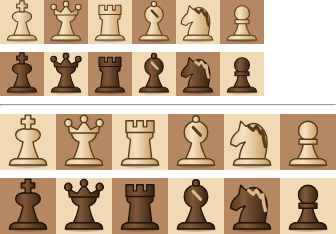
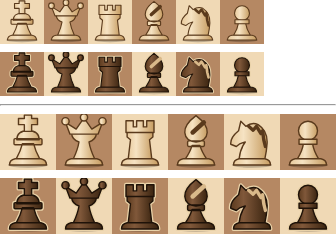
art : fou, roi et dame reconnaissables à 44 px
- fou : mitre en amande nettement pointue sur un col, entaille large ;
- roi : corps droit, bandeau et dôme lisse, haute croix épaisse au-dessus ;
- dame : couronne évasée à pointes profondes, trois billes ;
- pièces foncées : liseré clair autour de la silhouette, pour garder le
  contraste sur case foncée.
Capture des pièces régénérée (la tour, donc l'icône, ne change pas).

diff --git a/src/art/pieces.ts b/src/art/pieces.ts
@@ -24,23 +24,26 @@ const DESSINS: Record<Kind, Dessin> = {
         corps: 'M29 80 L33 46 L27 41 L27 30 L73 30 L73 41 L67 46 L71 80 Z',
         signe: () => signe('creneaux', '<path class="piece" d="M25 12 H38 V23 H44 V12 H56 V23 H62 V12 H75 V33 H25 Z"/>')
     },
-    // Fou : mitre arrondie, boule au sommet, fente en biais.
+    // Fou : mitre en amande, nettement pointue, posée sur un col ; large entaille en biais.
     B: {
-        corps: 'M31 80 Q40 63 42 52 Q29 46 29 33 Q29 17 50 11 Q71 17 71 33 Q71 46 58 52 Q60 63 69 80 Z',
-        signe: creux => signe('fente', `<path d="M45 24 L58 38" fill="none" stroke="${creux}" stroke-width="5.5" stroke-linecap="round"/>`)
-            + '<circle class="piece" cx="50" cy="9" r="6"/>'
+        corps: 'M31 80 Q40 67 43 56 H57 Q60 67 69 80 Z'
+            + ' M35 50 Q35 48 37 48 H63 Q65 48 65 50 V56 Q65 58 63 58 H37 Q35 58 35 56 Z'
+            + ' M50 3 Q71 19 70 33 Q69 48 50 50 Q31 48 30 33 Q29 19 50 3 Z',
+        signe: creux => signe('fente', `<path d="M44 33 L64 15" fill="none" stroke="${creux}" stroke-width="8" stroke-linecap="round"/>`)
     },
-    // Dame : couronne à trois billes.
+    // Dame : taille fine, couronne évasée à pointes profondes et trois billes.
     Q: {
         corps: 'M31 80 Q39 63 41 50 Q29 46 28 36 L28 32 H72 V36 Q71 46 59 50 Q61 63 69 80 Z',
         signe: () => signe('couronne',
-            '<path class="piece" d="M24 34 L22 19 L38 28 L50 11 L62 28 L78 19 L76 34 Z"/>'
-            + ['22,16', '50,9', '78,16'].map(p => `<circle class="piece" cx="${p.split(',')[0]}" cy="${p.split(',')[1]}" r="6.5"/>`).join(''))
+            '<path class="piece" d="M25 36 L17 15 L36 27 L50 7 L64 27 L83 15 L75 36 Z"/>'
+            + ['17,13', '50,6', '83,13'].map(p => `<circle class="piece" cx="${p.split(',')[0]}" cy="${p.split(',')[1]}" r="6.5"/>`).join(''))
     },
-    // Roi : sommet arrondi, grande croix pleine.
+    // Roi : corps droit, large bandeau, dôme lisse ; haute croix épaisse, dressée au-dessus du dôme.
     K: {
-        corps: 'M31 80 Q39 63 41 50 Q29 46 28 38 Q28 26 50 26 Q72 26 72 38 Q71 46 59 50 Q61 63 69 80 Z',
-        signe: () => signe('croix', '<path class="piece" d="M45 2 H55 V9 H62 V18 H55 V27 H45 V18 H38 V9 H45 Z"/>')
+        corps: 'M29 80 Q37 66 40 53 H60 Q63 66 71 80 Z'
+            + ' M30 46 Q30 30 50 30 Q70 30 70 46 Z'
+            + ' M25 46 Q25 44 27 44 H73 Q75 44 75 46 V53 Q75 55 73 55 H27 Q25 55 25 53 Z',
+        signe: () => signe('croix', '<path class="piece" d="M43.5 2 H56.5 V8 H67 V19 H56.5 V31 H43.5 V19 H33 V8 H43.5 Z"/>')
     },
     // Cavalier : tête de cheval de profil, museau à gauche.
     N: {
@@ -55,6 +58,14 @@ const DESSINS: Record<Kind, Dessin> = {
     }
 };
 
+/** Liseré clair des pièces foncées : la silhouette, tracée d'un trait clair épais sous la pièce (sans ses signes). */
+const LISERE = '#e9d2a8';
+function lisere(dessin: Dessin): string {
+    const formes = [dessin.corps, PIED].map(d => `<path d="${d}"/>`).join('')
+        + [...dessin.signe('none').matchAll(/<(path|circle) class="piece"[^>]*\/>/g)].map(m => m[0].replace(' class="piece"', '')).join('');
+    return `<g fill="${LISERE}" stroke="${LISERE}" stroke-width="7" stroke-linejoin="round">${formes}</g>`;
+}
+
 let compteur = 0;
 
 export function pieceSvg(piece: Piece, size: number): string {
@@ -67,6 +78,7 @@ export function pieceSvg(piece: Piece, size: number): string {
         + '</linearGradient>'
         + `<style>#${id}-g .piece{fill:url(#${id});stroke:${bois.trait};stroke-width:2.5;stroke-linejoin:round}</style></defs>`
         + '<ellipse cx="50" cy="91" rx="36" ry="5" fill="#000" fill-opacity="0.22"/>'
+        + (piece.color === 'b' ? lisere(dessin) : '')
         + `<g id="${id}-g">`
         + `<path class="piece" d="${dessin.corps}"/>`
         + dessin.signe(bois.creux)
